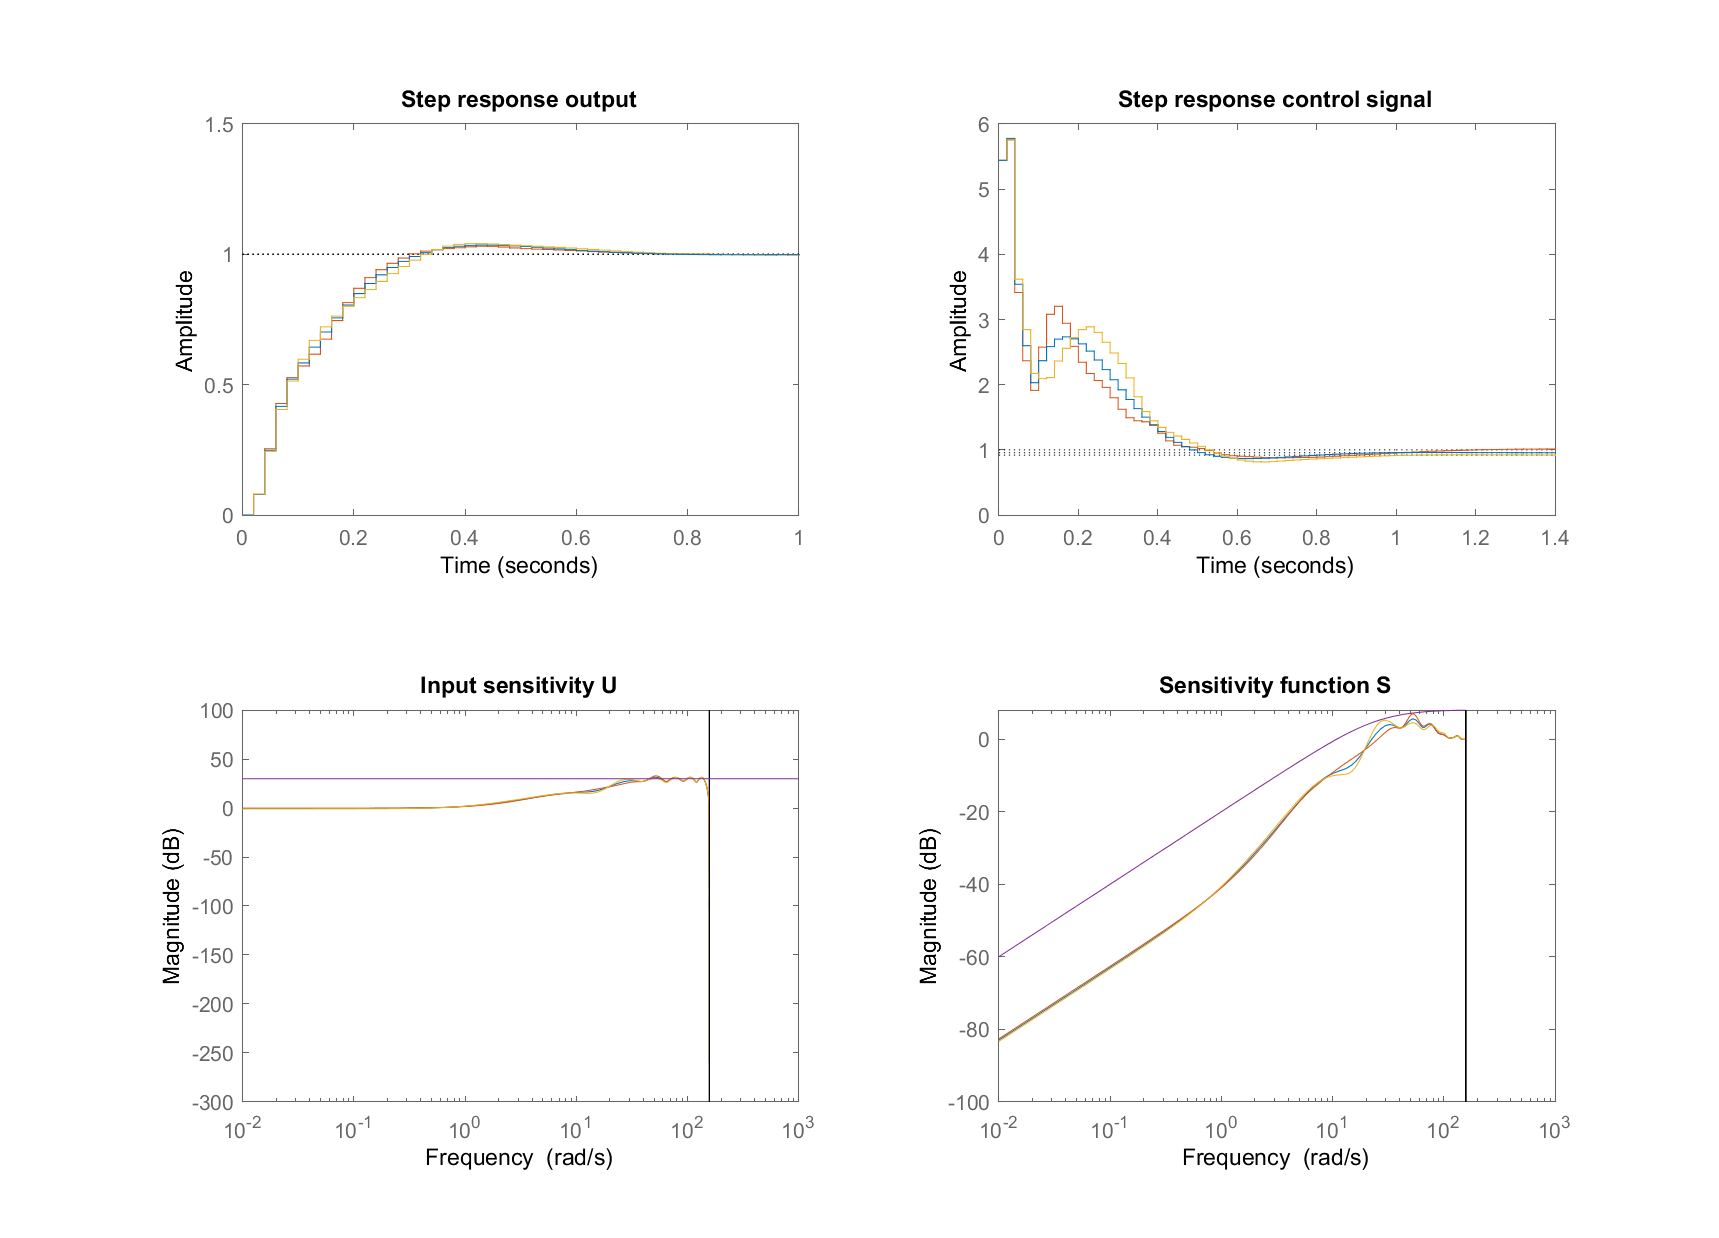
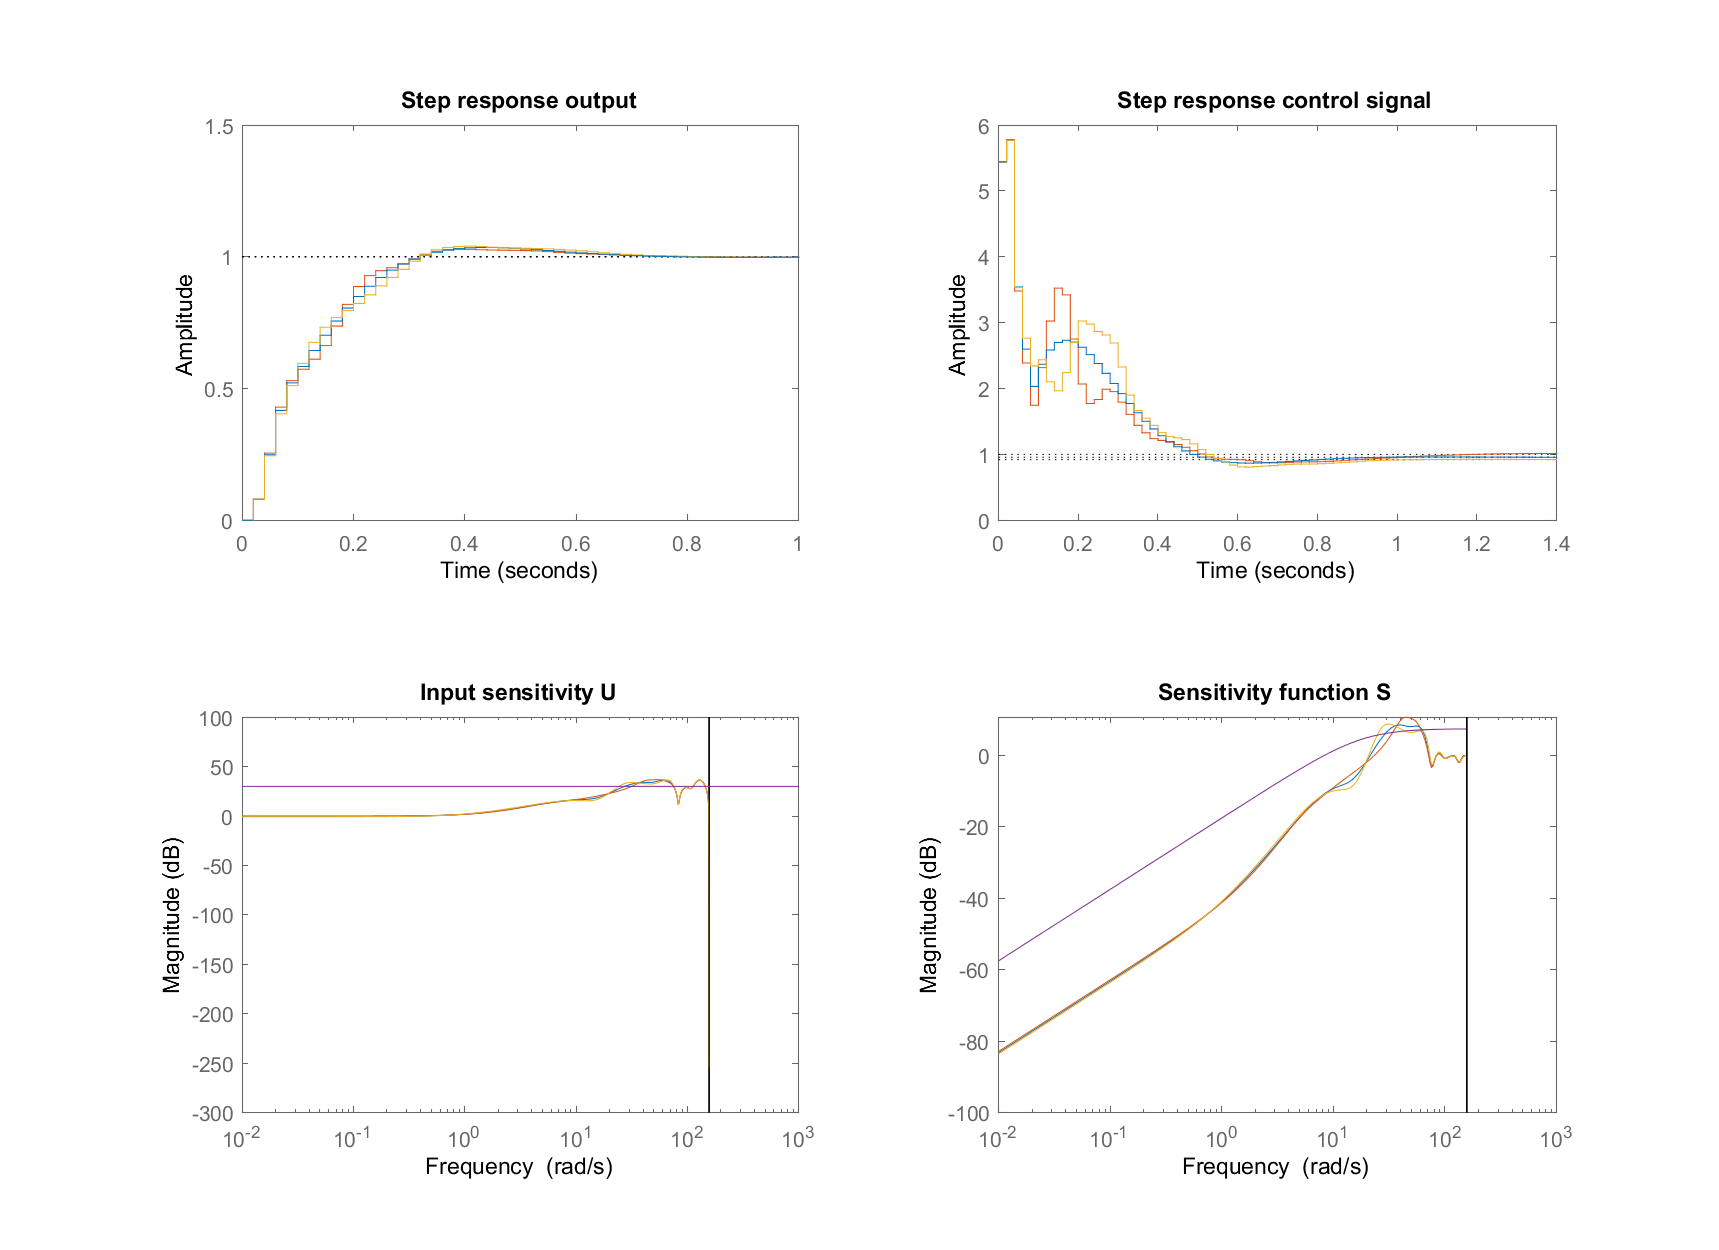
changed bandwith to to 15 in q para

diff --git a/CE3/switching/Final For Students/Switch_sigma.m b/CE3/switching/Final For Students/Switch_sigma.m
@@ -3,7 +3,7 @@ function [sys,x0,str,ts]=Switch_sigma(t,x,u,flag,alpha,lambda,DT,Ts)
 % The input vector u has m inputs that are the estimation errors from a 
 % multi-estimator. The parameters are the weighting factor, forgetting factor
 % and Dwell-Time. (beta is assumed to be equal to one)
-% u = [1-3] estimation errors 
+
  
 m = 3;
 
@@ -23,6 +23,7 @@ switch flag
         x0  = [zeros(m,1);1;DT;zeros(m,1)];
         str = [];
         ts  = [Ts 0]; 
+% u = [1-3] estimation errors 
         
 %x =    [1-3]Past monitoring signals
 %       [4] best modle (sigma)
@@ -38,7 +39,7 @@ switch flag
 %      way for all inputs (prediction errors)
         
         for i=1:m
-            J(i)=exp(lambda)*(x(i) - alpha*x(5+i)^2)+ exp(-lambda)*x(5+i) +alpha*u(i);   
+            J(i)=exp(lambda)*(x(i) - alpha*x(5+i)^2)+ exp(-lambda)*x(5+i)^2 +alpha*u(i)^2;   
                     %removing old instantaneous mesure, shifting forgetting
                     %factor, adding new therm forgetting factor and new
                     %inestantaneous measure

diff --git a/CE3/switching/Final For Students/LPV_Plant.m b/CE3/switching/Final For Students/LPV_Plant.m
@@ -27,6 +27,9 @@ switch flag
         x0  = zeros(sizes.NumDiscStates,1);
         str = [];
         ts  = [Ts 0];
+        
+%x =    [1,n]past n system outputs
+%       [n+1,end]past n control signals
        
         
      % state update 

diff --git a/CE3/switching/Final For Students/RST_switch.m b/CE3/switching/Final For Students/RST_switch.m
@@ -17,6 +17,9 @@ function [sys,x0,str,ts]=RST_switch(t,x,u,flag,N1,D1,N2,D2,N3,D3,Ts)
 %u(2): reference signal
 %u(3): output signal
 
+%x =    [1,n]past n error signals
+%       [n+1,end]past n control signals
+
 
 
 switch flag

diff --git a/CE3/CE3_2.m b/CE3/CE3_2.m
@@ -7,7 +7,7 @@ R=R';
 P=P';
 s = tf('s')
 Ts=W2.Ts;
-W1 = c2d((s+20)*0.5/ (s+0.00001),Ts);
+W1 = c2d((s+15)*0.5/ (s+0.00001),Ts);
 %W1 = 0.5;
 W3 = 1/5*tf([1] ,[1]);
 
